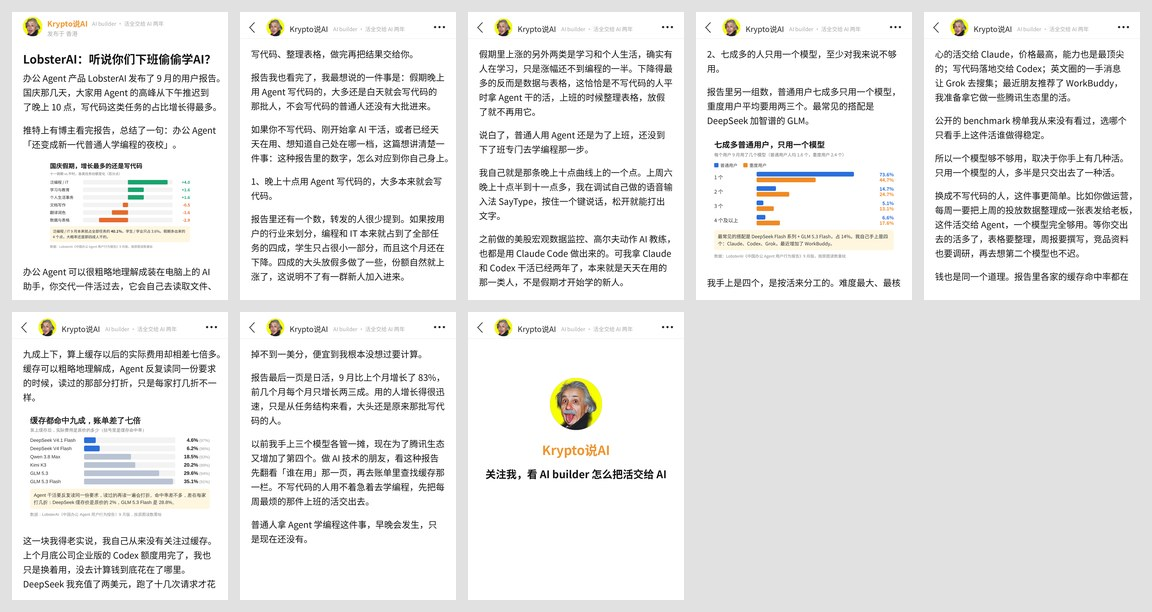
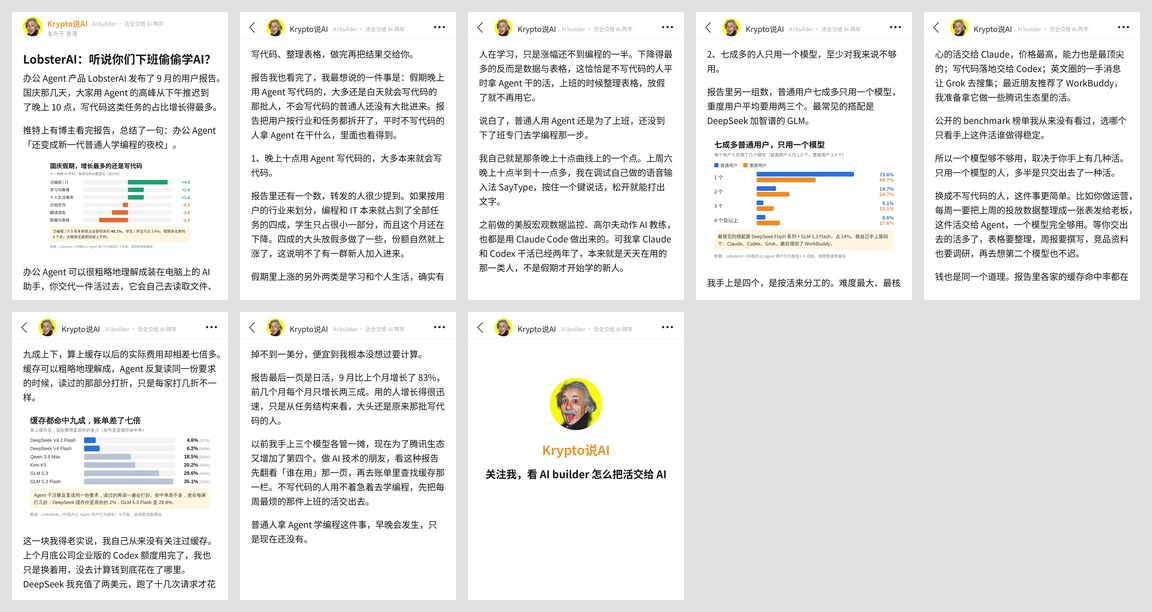
点名读者改成潜移默化（10-19 用户定）：writing_guide 6.10、SKILL、爆文方法论；LobsterAI 稿按此改
Claude-Session: https://claude.ai/code/session_01Nd9vVrWfMU8UJJuz89b5Ky

Changed region(s): [[0.2188, 0.0621, 0.5938, 0.4657]]

diff --git a/CLAUDE.md b/CLAUDE.md
@@ -3,7 +3,7 @@
 这个仓库是小红书账号 **Krypto说AI** 的工作区，也是它的记忆。在这里做的每一篇稿子，先读本页，再读 `账号/档案.md`、`账号/经历库.md` 和 `账号/爆文方法论.md`（10-14 起，选题 / 标题 / 首图 / 原文跟发的发前清单，交付时逐条写过没过）。每次用户说了新的经历、新的观点、新的规则，写回这两份文件并更新本页摘要，不要只留在对话里。
 
 ## 摘要
-- **10-19 LobsterAI 办公 Agent 报告稿（meme，观察，价值框架，立场 C，排 10-21 18:00，初稿待用户看）**：素材是 LobsterAI《中国办公 Agent 用户行为报告》9 月版长图（只有 227px 宽，原图待用户补）+ 铁锤人 @lxfater 10-19 推特 thread。stance 反对 thread 原句「还变成新一代普通人学编程的夜校」：假期晚上写代码的还是原来会写的人（泛编程本来占四成任务）；一个模型够不够看交出去几种活。用户回答进经历库 #27（美股宏观监控、高尔夫动作教练都用 Claude Code 做；没看过缓存）#28（开始用 WorkBuddy 做微信生态）、观点库 #25。thread 把 V4.1 Flash / V4 Flash 的缓存数串了，「牛来营销」是他的推测，稿里都没用。「微信」被 meme_check 判站外导流，稿里写「腾讯生态」。标题用户 10-19 改成情绪 + 名字：首页 headline「LobsterAI：听说你们下班偷偷学AI？」，标题.txt 压到 20 字「LobsterAI：听说你下班偷学AI？」，主关键词改 LobsterAI。用户 10-19 定两条写作规则：形容词也用双字（第 12 条）；开头不替读者预设情绪（「第一反应多半是焦虑……其实用不着焦虑」像 AI），直接从信源反常的事实起笔，撤回 10-14「第二句是读者的焦虑」（writing_guide 第 3 节、爆文方法论第三节、meme-xhs SKILL）；别人不深入人心的比喻（「夜校」）只引原话一次，不拿来当全文意象（writing_guide 反面清单）
+- **10-19 LobsterAI 办公 Agent 报告稿（meme，观察，价值框架，立场 C，排 10-21 18:00，初稿待用户看）**：素材是 LobsterAI《中国办公 Agent 用户行为报告》9 月版长图（只有 227px 宽，原图待用户补）+ 铁锤人 @lxfater 10-19 推特 thread。stance 反对 thread 原句「还变成新一代普通人学编程的夜校」：假期晚上写代码的还是原来会写的人（泛编程本来占四成任务）；一个模型够不够看交出去几种活。用户回答进经历库 #27（美股宏观监控、高尔夫动作教练都用 Claude Code 做；没看过缓存）#28（开始用 WorkBuddy 做微信生态）、观点库 #25。thread 把 V4.1 Flash / V4 Flash 的缓存数串了，「牛来营销」是他的推测，稿里都没用。「微信」被 meme_check 判站外导流，稿里写「腾讯生态」。标题用户 10-19 改成情绪 + 名字：首页 headline「LobsterAI：听说你们下班偷偷学AI？」，标题.txt 压到 20 字「LobsterAI：听说你下班偷学AI？」，主关键词改 LobsterAI。用户 10-19 定两条写作规则：形容词也用双字（第 12 条）；开头不替读者预设情绪（「第一反应多半是焦虑……其实用不着焦虑」像 AI），直接从信源反常的事实起笔，撤回 10-14「第二句是读者的焦虑」（writing_guide 第 3 节、爆文方法论第三节、meme-xhs SKILL）；别人不深入人心的比喻（「夜校」）只引原话一次，不拿来当全文意象（writing_guide 反面清单）；Echo 三样第 ② 条改成潜移默化：不写「如果你……这篇想讲清楚一件事」，用一句跟读者处境有关的事实让他自己对上号（writing_guide 6.10）
 - **10-18 晚 对标 Echo note 回响阅览室，学了三样（用户定「写进 skills」，`对标/Echo note回响阅览室/拆解.md`）**：用户说稿子「像转述、没有个人 IP」。Echo 做海外播客精读，素材全是别人的却不像搬运，靠首尾一个「我」的框。写进 meme-xhs SKILL + writing_guide 6.10、own-xhs、爆文方法论发前清单 2.6：① 首页「我最想说的一件事是：（stance）」，用户真改变过看法才写「改观」；② 紧跟点名读者 + 承诺；③ 结尾「以前 / 现在」（用户真实变化）+ 两类读者各一句。不进 meme_check，验证稿待 3 篇（Anthropic 就业稿 10-18 19:15 实际发出去的是试三样之前的版本，不算，下一篇起算）。节尾加粗对仗金句不学（10-02 被认出 AI 的句式）；标题用「情绪 + 人名 / 模型名 / 信源」（用户 10-18 晚定，如「强烈推荐看看Anthropic就业报告。」），不写只有情绪没名字的，备选三条至少一条用这种
 - **10-18 用户定：人设 + 搜索，改进 skill（验证稿待 3 篇）**：平台诊断「强内容弱人设、博主像搬运工、缺持续价值观输出」+「搜索为零、标题前置人名 / 模型名 / 场景词」。改了：① `stance` 所有文体重新必填（撤回 10-06 可选），retell 稿结尾前一段 150–300 字「我」的独家判断、结尾停在我的判断上、「我」上限 6 → 10；② 新增 `stance_line` 必填，回到 `账号/档案.md` 新加的「长期立场」A / B / C / D（AI 取代不做判断的人 / 活整个交给 AI 短板是我 / 稳定听话比惊艳值钱 / 角色边界消失人拍板），写稿前先问加第 ⑤ 问、own 三问加第 4 问；③ render_meme 每页账号名右边一行灰字 slogan「AI builder · 活全交给 AI 两年」（`slogan: off` 关）。**四条立场和 slogan 用户 10-18 确认不改**；④ 可搜词放标题前 6 字（meme_check 超 6 字 ⚠、没有 ✗），中文人名开头放开，前提它就是 keyword（「扎克伯格：……」搜索 3.6% 账号最高），不是 keyword 的专名开头从 ✗ 降 ⚠。改在 meme-xhs SKILL / writing_guide 1.5、6.8、8、8.5 / meme_check / render_meme、own-xhs SKILL + questions、爆文方法论（新「三点五 人设」节、发前清单 2 和 2.5）。按 10-18 回看的规矩这算一撤一加：撤「stance 可选」「retell 结尾一句认同」「专名开头 ✗」，加 stance_line 和前 6 字
 - **10-18 Skills 改动回看**（`复盘/2026-10-18_Skills改动回看_哪些有效哪些没用.md`）：一个月 30 多次改动按改输入 / 改选题 / 改输出分开看。改输入 2 次（写稿前先问、own 三问）后面跟着 2 个爆款；改选题 4 次 2 正 1 负；改输出 20 多次（黑名单、口吻、流畅度、双字动词、每节配图、终稿重写、qualia）0 条被数据证实，qualia 当天回退，10-14 到 10-16 三天三个大改之后 5 篇留人 0 比 4。唯一稳定有效的输出规则是 10-02 的社会证明标题。「骨架是文章就停」会拦掉 Anthropic 爆款，已改两道门槛；「人物稿优先」导致一周连发三篇转述、粉丝停留反降。建议（待用户定）：输出规则只撤不加、每条新规则绑 3 篇稿再定、发布清单复制进标题.txt、终稿重写等 SayType 数据再扩散

diff --git a/发布/2026-10-21_lobsterai-night-school/meme版/编辑用/draft_v5_直白点名.md b/发布/2026-10-21_lobsterai-night-school/meme版/编辑用/draft_v5_直白点名.md
@@ -1,0 +1,65 @@
+---
+title: LobsterAI：听说你下班偷学AI？
+genre: 观察
+value: 框架
+reader: 不写代码、刚开始用 AI 干活的上班族
+stance: 普通人还没开始拿 Agent 学编程，假期晚上用 Agent 写代码的还是原来就会写的人；读这类 AI 使用报告先看是谁在用、手上交出去了几种活，一个模型够不够取决于活有几种，不看谁家火
+stance_line: C
+stance_quote: 还变成新一代普通人学编程的夜校
+output: 读一份 AI 使用报告先问的两件事：谁在用、交出去了几种活
+keyword: LobsterAI
+keywords: 办公Agent, AI编程, DeepSeek
+headline: LobsterAI：听说你们下班偷偷学AI？
+hero: holiday.png
+hero_after: 2
+location: 香港
+account: Krypto说AI
+---
+
+办公 Agent 产品 LobsterAI 发布了 9 月的用户报告。国庆那几天，大家用 Agent 的高峰从下午推迟到了晚上 10 点，写代码这类任务的占比增长得最多。
+
+推特上有博主看完报告，总结了一句：办公 Agent「还变成新一代普通人学编程的夜校」。
+
+办公 Agent 可以很粗略地理解成装在电脑上的 AI 助手，你交代一件活过去，它会自己去读取文件、写代码、整理表格，做完再把结果交给你。
+
+报告我也看完了，我最想说的一件事是：假期晚上用 Agent 写代码的，大多还是白天就会写代码的那批人，不会写代码的普通人还没有大批进来。
+
+如果你不写代码、刚开始拿 AI 干活，或者已经天天在用、想知道自己处在哪一档，这篇想讲清楚一件事：这种报告里的数字，怎么对应到你自己身上。
+
+1、晚上十点用 Agent 写代码的，大多本来就会写代码。
+
+报告里还有一个数，转发的人很少提到。如果按用户的行业来划分，编程和 IT 本来就占到了全部任务的四成，学生只占很小一部分，而且这个月还在下降。四成的大头放假多做了一些，份额自然就上涨了，这说明不了有一群新人加入进来。
+
+假期里上涨的另外两类是学习和个人生活，确实有人在学习，只是涨幅还不到编程的一半。下降得最多的反而是数据与表格，这恰恰是不写代码的人平时拿 Agent 干的活，上班的时候整理表格，放假了就不再用它。
+
+说白了，普通人用 Agent 还是为了上班，还没到下了班专门去学编程那一步。
+
+我自己就是那条晚上十点曲线上的一个点。上周六晚上十点半到十一点多，我在调试自己做的语音输入法 SayType，按住一个键说话，松开就能打出文字。
+
+之前做的美股宏观数据监控、高尔夫动作 AI 教练，也都是用 Claude Code 做出来的。可我拿 Claude 和 Codex 干活已经两年了，本来就是天天在用的那一类人，不是假期才开始学的新人。
+
+2、七成多的人只用一个模型，至少对我来说不够用。
+
+报告里另一组数，普通用户七成多只用一个模型，重度用户平均要用两三个。最常见的搭配是 DeepSeek 加智谱的 GLM。
+
+![用几个模型](models.png)
+
+我手上是四个，是按活来分工的。难度最大、最核心的活交给 Claude，价格最高，能力也是最顶尖的；写代码落地交给 Codex；英文圈的一手消息让 Grok 去搜集；最近朋友推荐了 WorkBuddy，我准备拿它做一些腾讯生态里的活。
+
+公开的 benchmark 榜单我从来没有看过，选哪个只看手上这件活谁做得稳定。
+
+所以一个模型够不够用，取决于你手上有几种活。只用一个模型的人，多半是只交出去了一种活。
+
+换成不写代码的人，这件事更简单。比如你做运营，每周一要把上周的投放数据整理成一张表发给老板，这件活交给 Agent，一个模型完全够用。等你交出去的活多了，表格要整理，周报要撰写，竞品资料也要调研，再去想第二个模型也不迟。
+
+钱也是同一个道理。报告里各家的缓存命中率都在九成上下，算上缓存以后的实际费用却相差七倍多。缓存可以粗略地理解成，Agent 反复读同一份要求的时候，读过的那部分打折，只是每家打几折不一样。
+
+![缓存和账单](cache.png)
+
+这一块我得老实说，我自己从来没有关注过缓存。上个月底公司企业版的 Codex 额度用完了，我也只是换着用，没去计算钱到底花在了哪里。DeepSeek 我充值了两美元，跑了十几次请求才花掉不到一美分，便宜到我根本没想过要计算。
+
+报告最后一页是日活，9 月比上个月增长了 83%，前几个月每个月只增长两三成。用的人增长得很迅速，只是从任务结构来看，大头还是原来那批写代码的人。
+
+以前我手上三个模型各管一摊，现在为了腾讯生态又增加了第四个。做 AI 技术的朋友，看这种报告先翻看「谁在用」那一页，再去账单里查找缓存那一栏。不写代码的人用不着急着去学编程，先把每周最烦的那件上班的活交出去。
+
+普通人拿 Agent 学编程这件事，早晚会发生，只是现在还没有。

diff --git a/skills/meme-xhs/references/writing_guide.md b/skills/meme-xhs/references/writing_guide.md
@@ -294,12 +294,12 @@ meme_check 10-14 起多一组「流畅度」检查，上面的数全部自动报
 
 **10-15 补：讲课腔是另一种活人感。** 小盖 Natura-1 稿（`对标/小盖/口吻拆解.md` 第八批）虚词 22%、「你」0，读起来照样像一个懂行的人在讲。它靠的是：第一句骂一种现象不讲产品；一个读者熟的锚（GPT-3）从头用到尾；跑题一段再拉回来；概念从零讲，例子是剪刀、门把手；自己指出三四个具体难点。所以 `genre:` 是解读 / 观察 / 实测时，上面第 3、4 条降成提示，这几样要有。聊天腔（西元）和讲课腔（小盖）选一种写到底，不混。
 
-## 6.10 编辑的声音：首尾一个「我」的框 + 点名读者（10-18 晚起，用户定）
+## 6.10 编辑的声音：首尾一个「我」的框 + 让读者对上号（10-18 晚起，用户定；10-19 改第 2 条）
 
 对标 Echo note 回响阅览室（`对标/Echo note回响阅览室/拆解.md`，四篇播客精读，个人品牌那篇 160 赞 187 藏）。它的素材 100% 是别人的，却不像搬运：首尾各有一个「我」的框，中间替读者做了取舍。用户 10-18 看 Anthropic 就业稿试用后定「写进 skills」。三样，所有文体都做，retell 也做：
 
 1. **首页亮「我最想说的一件事」**。前三四段里有一句：「两份报告看下来，我最想说的一件事是：AI 不会取代新人，但会取代只会执行、不做判断的那一层人。」内容就是 `stance`。Echo 的原句是「最让我改观的一件事是」，只有用户在写稿前先问里说过自己被改变了看法时才用「改观」，没说过就用「最想说」，不替用户编认知变化。
-2. **紧跟一段点名读者 + 承诺**：「如果你刚毕业、正在找工作，或者已经工作两三年、担心哪天被 AI 替掉，这篇想讲清楚一件事：你该往哪一层挪。」点名一到两群人（对上 front matter `reader:`），承诺只说读完能拿到什么，不说「干货」「必看」。
+2. **紧跟一句让读者自己对上号**（10-18 晚起；**10-19 改**，用户看 LobsterAI 稿「如果你不写代码、刚开始拿 AI 干活……这篇想讲清楚一件事：这种报告里的数字，怎么对应到你自己身上」后定：「这个表达太笨了，只需要潜移默化地让读者知道这篇跟他有什么关系，带着代入感进来，不需要非常直白地说」）。不写「如果你……，这篇想讲清楚一件事：……」这种点名 + 承诺；用一句跟读者处境有关的事实或场景，让他自己对上号，可以接在「我最想说」那段后面。LobsterAI 稿的写法：「报告把用户按行业和任务都拆开了，平时不写代码的人拿 Agent 在干什么，里面也看得到。」对上 front matter `reader:`，不说「干货」「必看」，不说「这篇想讲清楚」。
 3. **结尾「以前 / 现在」+ 两类读者各带走一句**。「以前我面校招生，问的是你做过什么；现在问的是你让 agent 做过什么。」以前和现在必须是用户真实的变化（经历库、写稿前先问的回答）；没有就写原文里那个人的前后变化，主语换成他。然后两类读者各一句：AI 技术类 / 个人成长类（或这篇点名的两群人），「还在找工作的同学，带一个自己搭的 agent 来面试。已经工作几年的人，回头数一数手上的活，有几件还停在干活那一层。」
 
 这三样会让「第一人称判断」多出一处，meme_check 报 ⚠ 不用改。首页加了两段后 hero 容易被挤到第 2 页，用 `hero_after: 2` 让人脸 / 素材图留在首页。

diff --git a/skills/meme-xhs/SKILL.md b/skills/meme-xhs/SKILL.md
@@ -37,7 +37,7 @@ description: >-
 
 **10-18 人设三条（用户定，替代 10-06「stance 可选」）**：① `stance` 所有文体必填，一句原文没说过的判断；② `stance_line` 必填，A / B / C / D 之一，读者连看三篇要能说出这个号站什么；③ 每页角落一行灰字 slogan（render_meme 默认「AI builder · 活全交给 AI 两年」，`slogan:` 改，`slogan: off` 关）。meme_check 查 ①②，缺了是 ✗。验证稿待 3 篇，三篇后看每千次观看涨粉有没有从 1 到 2 回到 5 以上再定去留。
 
-**10-18 晚 编辑的声音三样（用户定，对标 Echo note 回响阅览室，`对标/Echo note回响阅览室/拆解.md`；所有文体，retell 也要）**：素材全是别人的，读者也要读出一个人的取舍。写法见 writing_guide 6.10，范例 `发布/2026-10-20_anthropic-employment/`。① 首页「我最想说的一件事是：……」把 stance 亮在前三四段（用户真被改变过看法时才写「最让我改观的一件事」，没有就不写改观，不替用户编）；② 首页紧跟一段点名读者 + 承诺：「如果你……，这篇想讲清楚一件事：……」，点名的人群要能对上 `reader:`；③ 结尾一段「以前……现在……」（用户真实的前后变化）+ 两类读者各带走一句（AI 技术类 / 个人成长类）。不进 meme_check，验证稿待 3 篇，看每千次观看涨粉。
+**10-18 晚 编辑的声音三样（用户定，对标 Echo note 回响阅览室，`对标/Echo note回响阅览室/拆解.md`；所有文体，retell 也要）**：素材全是别人的，读者也要读出一个人的取舍。写法见 writing_guide 6.10，范例 `发布/2026-10-20_anthropic-employment/`。① 首页「我最想说的一件事是：……」把 stance 亮在前三四段（用户真被改变过看法时才写「最让我改观的一件事」，没有就不写改观，不替用户编）；② 首页紧跟一句让读者自己对上号的事实或场景（10-19 改：不写「如果你……，这篇想讲清楚一件事」这种直白点名 + 承诺，用户说太笨，要潜移默化）；③ 结尾一段「以前……现在……」（用户真实的前后变化）+ 两类读者各带走一句（AI 技术类 / 个人成长类）。不进 meme_check，验证稿待 3 篇，看每千次观看涨粉。
 **10-18 晚 情绪荐读标题（用户定）**：标题可以是情绪口吻（「强烈推荐看看……」「想做 X 的人，都去看……」「很少见到……这么坦白的……」），但必须带一个人名 / 模型名 / 信源当可搜词，不写只有情绪没名字的标题。标题备选三条里至少一条用这种，写法见 writing_guide 6.10 末尾。
 
 **10-05 补（小盖第三批，Personal Agent 稿，用户已点头；10-06 起第 2 条改成最多 1 个）**：第二批治的是句式，这四条治的是骨子里的解读味，优先级高于上面的单子。

diff --git a/skills/own-xhs/SKILL.md b/skills/own-xhs/SKILL.md
@@ -63,7 +63,7 @@ description: >-
 - Claude 的活：排顺序、写接句、把半句补成整句。不替用户生成判断，不编场景。交付时指出哪几句是 Claude 接的。
 - meme-xhs 里对 Claude 写的东西设的上限（假设我最多 1、我觉得最多 4、押注最多 1、结尾对仗、retell 里「我」最多 6），**用户给的句子不算在内**；Claude 自己写的仍然算。
 - 10-18 起每页角落的 slogan、stance / stance_line 必填、可搜词在标题前 6 字，照 meme-xhs。
-- 10-18 晚起「编辑的声音三样」（首页「我最想说的一件事」、点名读者 + 承诺、结尾以前 / 现在 + 两类读者各一句），照 meme-xhs writing_guide 6.10；own 稿的「以前 / 现在」优先用三问里用户的原话。
+- 10-18 晚起「编辑的声音三样」（首页「我最想说的一件事」、一句让读者自己对上号（10-19 起不写直白的点名 + 承诺）、结尾以前 / 现在 + 两类读者各一句），照 meme-xhs writing_guide 6.10；own 稿的「以前 / 现在」优先用三问里用户的原话。
 - 李录四条、黑名单、标题公式、两张图、每节配图（10-15 起，信息密度大的节配一张可视化，见 meme-xhs 第 3 步和 cover_guide 末节）、不预告不导流，照旧。
 
 ### 4. 检查

diff --git a/账号/爆文方法论.md b/账号/爆文方法论.md
@@ -65,7 +65,7 @@
 1. 骨架是谁：原文里的人 / 我自己 / 刚发生的事。10-18 起「一篇文章」不一刀切停，看它有没有戏（名字或反常事实）。
 2. 标题：社会证明一个（路人认识的名字）、可搜词一个且在前 6 字、不是教程腔、不自称内行。发布时改标题也要过这条。
 2.5 人设：`stance` 一句原文没说的判断、`stance_line` 回到 A / B / C / D 哪条，retell 稿结尾那段「我」在不在。
-2.6 编辑的声音（10-18 晚起）：首页有没有「我最想说的一件事」和点名读者那段；结尾有没有「以前 / 现在」+ 两类读者各一句；以前 / 现在是不是用户真的变化。
+2.6 编辑的声音（10-18 晚起）：首页有没有「我最想说的一件事」和一句让读者自己对上号的事实（10-19 起不写「如果你……这篇想讲清楚」）；结尾有没有「以前 / 现在」+ 两类读者各一句；以前 / 现在是不是用户真的变化。
 3. 首图：人脸或 headline，二选一必有。
 4. 开头第一句是判断或处境，不是信源名。
 5. 两群读者各碰到哪一句，写出来。

diff --git a/发布/2026-10-21_lobsterai-night-school/meme版/编辑用/draft.md b/发布/2026-10-21_lobsterai-night-school/meme版/编辑用/draft.md
@@ -22,9 +22,7 @@ account: Krypto说AI
 
 办公 Agent 可以很粗略地理解成装在电脑上的 AI 助手，你交代一件活过去，它会自己去读取文件、写代码、整理表格，做完再把结果交给你。
 
-报告我也看完了，我最想说的一件事是：假期晚上用 Agent 写代码的，大多还是白天就会写代码的那批人，不会写代码的普通人还没有大批进来。
-
-如果你不写代码、刚开始拿 AI 干活，或者已经天天在用、想知道自己处在哪一档，这篇想讲清楚一件事：这种报告里的数字，怎么对应到你自己身上。
+报告我也看完了，我最想说的一件事是：假期晚上用 Agent 写代码的，大多还是白天就会写代码的那批人，不会写代码的普通人还没有大批进来。报告把用户按行业和任务都拆开了，平时不写代码的人拿 Agent 在干什么，里面也看得到。
 
 1、晚上十点用 Agent 写代码的，大多本来就会写代码。
 
